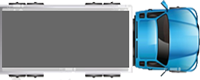
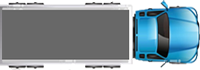
تغییر اندازه ی لاین ها به ۷۰ تغییر اندازه ی کامیون

diff --git a/CrossWalk/Const.java b/CrossWalk/Const.java
@@ -18,7 +18,7 @@ public final class Const {
     // Line
     public final static String LINE_ROOT_IMAGE = "\\src\\resources\\Line\\MainLines";
     public final static String LINE_IMAGE = "\\src\\resources\\Line\\MainLines\\Line_{0}.png";
-    public final static int LINE_HEIGHT = 100;
+    public final static int LINE_HEIGHT = 85;
     public final static int LINE_WIDTH = 87;
     public final static boolean LINE_DIRECTION_RTL = true;
     public final static boolean LINE_DIRECTION_LTR = false;
